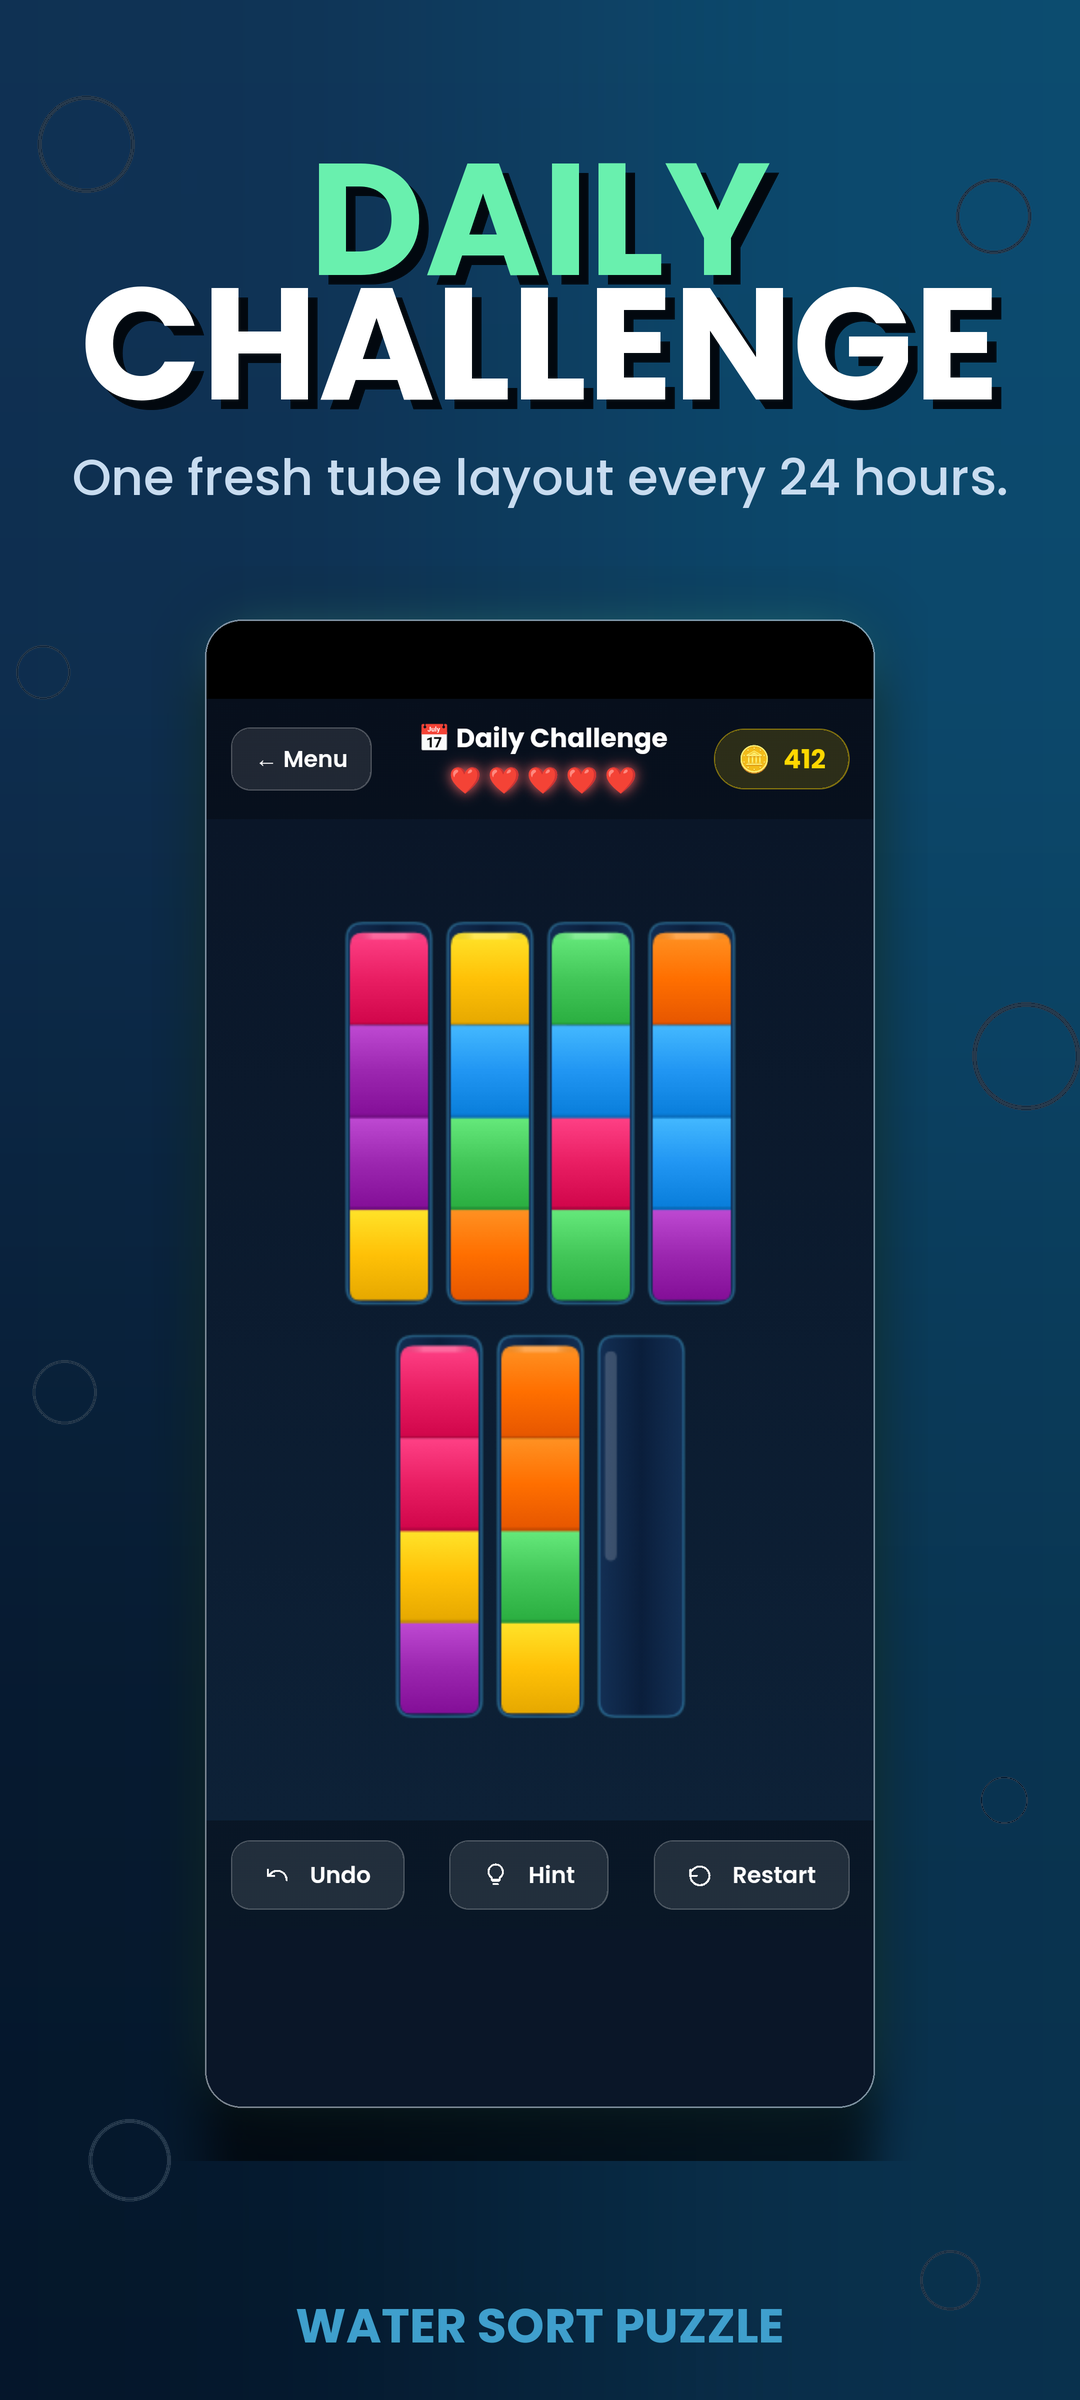
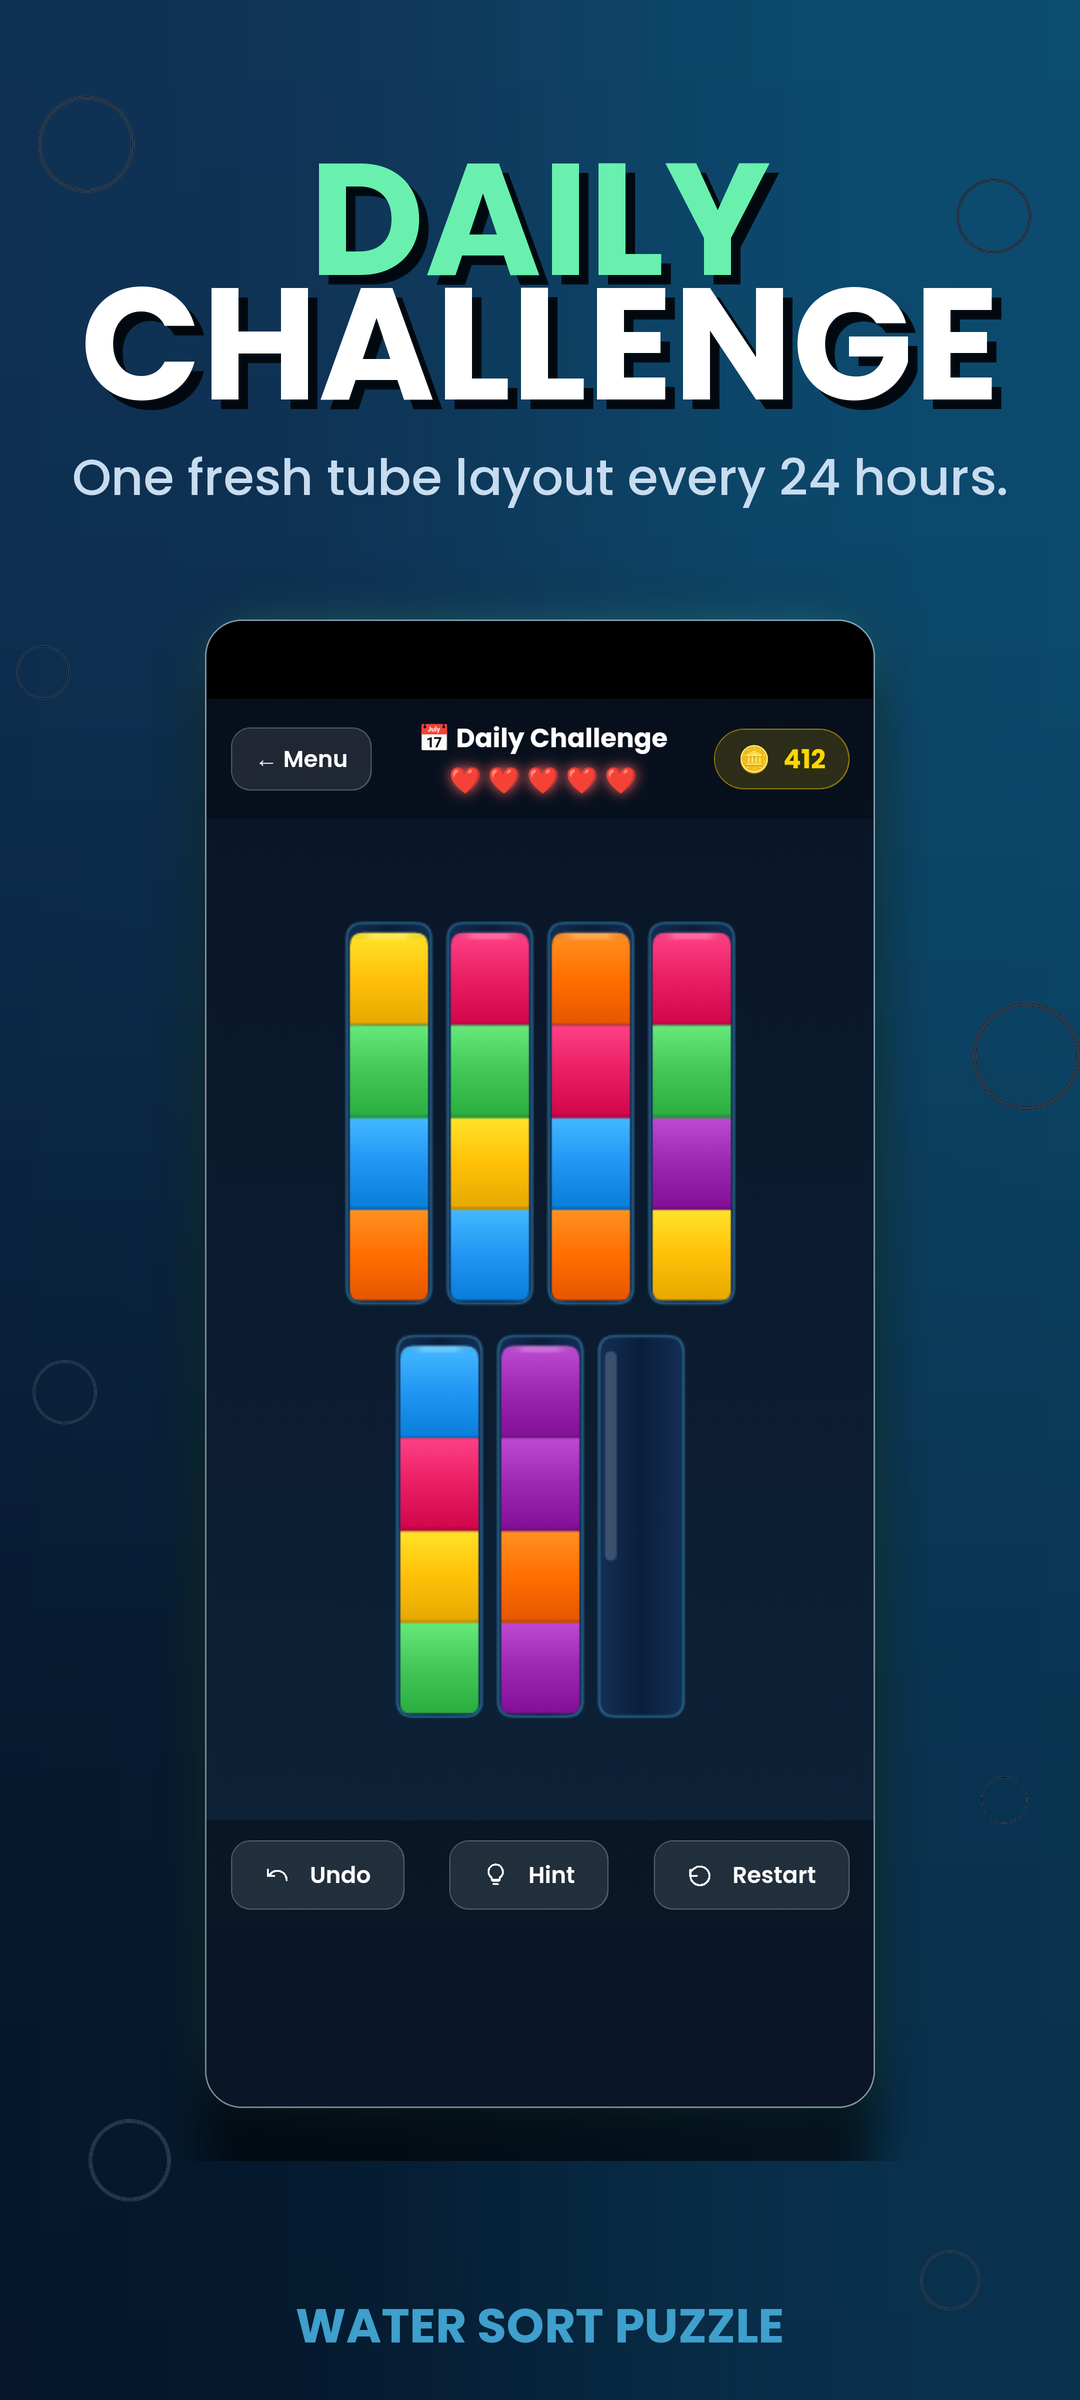
Screenshot rules: no shop/more-games slots; regen WaterSort phone
Doc updates:
- CLAUDE.md "Things to flag" — add the no-shop, no-more-games,
  no-settings rule. Every screenshot slot must show actual gameplay
  at a varied level. Drop the WaterSort/Nonogram/Puzzle2048
  grandfathering — those three are being actively regenerated.
- SHIP_GAME.md Phase 3.3 — bans listed (Shop, More Games, Settings,
  Privacy/About, duplicate level/state). Adds a slot allocation
  table as a starting point (deep + early + mid + daily + level
  select + alt mid + win-screen).

WaterSort phone regen:
- screenshot_headlines.json: replaced "POWER-UPS IN THE SHOP" and
  "MORE PEGASUS PUZZLES" with "EARLY POURS" + "MID-GAME TANGLES".
- screenshot_taps.json: slots 04 and 05 now drive
  Game.startPlay() at distinct levels (8 and 42 respectively)
  instead of tapping the shop/more-games icons. Slot 03 fixed to
  use Game.showScreen('levelScreen'), slot 06 fixed to use
  window.wsMissionsOpen() (previous showScreen('missionsScreen')
  was a wrong ID — missions is an overlay, not a screen).
- store/screenshots/phone/{01-07}.png regenerated. Each slot shows
  distinct gameplay: level 88 / daily / level select / level 9 /
  level 43 / daily missions / menu. No shop, no more-games.

Changed region(s): [[0.3056, 0.375, 0.7028, 0.7188]]

diff --git a/CLAUDE.md b/CLAUDE.md
@@ -13,8 +13,8 @@ Read this file end-to-end before doing anything in here.
   `COMPETITIVE_BENCHMARK.md`, `NOTIFICATIONS_IMPL.md`)
 - `Gs/scripts/` — all Python scripts (`pre_publish_check.py`,
   `build_release.py`, `gen_handoff.py`, `gen_translations.py`,
-  `gen_store_paste.py`, `pepk_command.py`, `consult_designer.py`,
-  `init_app_metadata.py`,
+  `gen_store_paste.py`, `pepk_command.py`, `gen_upload_keystore.py`,
+  `consult_designer.py`, `init_app_metadata.py`,
   `capture_screenshots.py`, `wrap_screenshots.py`,
   `wrap_tablet_screenshots.py`, `app_themes.py`,
   `dedup_similar_apps.py`, `cleanup_repo.py`, `fix_all_apps.py`,
@@ -57,6 +57,11 @@ respectively. Run scripts from the repo root:
   `<id>` — never `<uk-UA>` / `<id-ID>`). `pre_publish_check.py
   check_store_paste_locale_tags` blocks any STORE_PASTE.md that drifts
   back to BCP-47 country codes
+- **`gen_upload_keystore.py`** — generates `<App>/android/upload-
+  keystore.jks` + `upload_certificate.pem` and rewrites
+  `keystore.properties` so gradle signs AABs with the upload key
+  (which Play Console requires to differ from the app signing key).
+  Run after PEPK setup, before first AAB build for that app
 - **`pepk_command.py`** — prints the exact PEPK command for one app,
   pulling alias + password from `keystore.properties`. Refuses to run
   if `encryption_public_key.pem` or `pepk.jar` isn't already in
@@ -198,10 +203,29 @@ will be rejected. Two paths to fix it; the **PEPK option below is
 preferred** because it avoids the 1-3 day Google approval wait of
 the reset request.
 
-**PEPK upload (preferred, takes ~5 minutes per app):**
+**Two keystores per app (the Play App Signing reality):**
+
+Play Console enforces that the **app signing key and upload key
+MUST be different**. After completing PEPK in step 4, leaving step 5
+empty means Play implicitly tries to make app signing key = upload
+key, and the release page errors with "ключ завантаження має
+відрізнятися від ключа розгортання". So every app actually needs
+TWO keystores:
+
+| File | SHA-1 example (Puzzle2048) | Role |
+|---|---|---|
+| `<App>/android/keystore.jks` | `97:71:24:...` | **App signing key** — uploaded encrypted via PEPK in step 4. Play uses this server-side to re-sign delivered APKs. Gradle does NOT use this for AAB signing. |
+| `<App>/android/upload-keystore.jks` | `76:A0:1D:...` | **Upload key** — gradle signs AABs with this. Its public cert (`upload_certificate.pem`) is uploaded via step 5c. Play validates uploads against this cert. |
+
+`<App>/android/keystore.properties` points gradle at the **upload**
+keystore, not the app signing one — so `bundleRelease` produces an
+AAB Play Console will accept.
+
+**PEPK + upload-keystore setup (the one-time per-app flow):**
 
 Before triggering bundleRelease for any app that has not yet been
 uploaded to Play Console:
+
 1. In Play Console for the app: **App integrity → App signing**.
 2. Pick radio **"Експортувати й завантажити ключ зі сховища Java"**
    (Export and upload key from Java keystore) — NOT the default
@@ -209,13 +233,16 @@ uploaded to Play Console:
 3. Download both files into `<App>/android/`:
    - `encryption_public_key.pem` (step 1 link on the page)
    - `pepk.jar`                    (step 2 link on the page)
-4. Run `python3 scripts/pepk_command.py <App>` to print the exact
-   `java -jar pepk.jar …` command pre-filled with that app's
-   keystore alias and password. Run it; it produces
-   `<App>/android/<alias>_pepk.zip`.
+4. Run `python3 scripts/pepk_command.py <App>` to print the PEPK
+   command. Run it; it produces `<App>/android/<alias>_pepk.zip`.
 5. Upload that `.zip` via step 4 link in Play Console.
-6. Save. Done — the local keystore is now this app's signing key
-   without a reset request.
+6. Run `python3 scripts/gen_upload_keystore.py <App>`. This
+   generates a SEPARATE upload keystore + cert and rewrites
+   `keystore.properties` to point gradle at it.
+7. Upload `<App>/android/upload_certificate.pem` via step 5c link
+   in Play Console.
+8. Save. Done — the red "must differ" error clears, and any
+   subsequent `bundleRelease` produces an AAB Play accepts.
 
 **Reset request (fallback, takes 1-3 business days):**
 
@@ -224,14 +251,20 @@ wrong-key AAB and Play has locked in the Google-generated upload
 key. Submit `<App>/android/upload_cert_request.pem` (auto-generated
 by `migrate_to_per_app_keystores.py`) via Play Console "Request
 upload key reset". WaterSort and Nonogram already went through this
-path. All other apps in the portfolio should use the PEPK option
-above on their first Play Console listing setup, BEFORE any AAB
-upload, to avoid the reset wait.
+path. All other apps in the portfolio should use the PEPK +
+upload-keystore flow above on their first Play Console listing
+setup, BEFORE any AAB upload, to avoid the reset wait.
 
 **Shipping flag:** SHIP_GAME.md Phase 7 (AAB build + upload) MUST
-verify the local keystore SHA-1 matches Play Console's registered
-upload key before attempting an upload. If it doesn't,
-hard-block the upload step and run the PEPK flow first.
+verify three things before kicking off bundleRelease:
+1. `<App>/android/encryption_public_key.pem` and `pepk.jar` exist
+   (PEPK prerequisites downloaded).
+2. `<App>/android/upload-keystore.jks` and `upload_certificate.pem`
+   exist (separate upload key generated).
+3. `<App>/android/keystore.properties` `storeFile` points at
+   `upload-keystore.jks` (so gradle signs AABs with the upload key).
+If any of these isn't true, hard-block the upload step and run the
+PEPK + gen_upload_keystore.py flow first.
 
 ---
 
@@ -594,9 +627,24 @@ If you see any of these, stop and surface:
 - Auto-generated listings via template substitution
 - `game.html` under ~8KB planned for publishing
 - Reused screenshots across multiple apps
+- **Shop / "More Games" / settings screens used as screenshots.**
+  Every screenshot slot must show ACTUAL GAMEPLAY at a varied level
+  — different board layouts, different progress states, different
+  game phases. Capturing the shop or "More Games" panel is a
+  wasted slot (Play Store users see "this app is mostly a paywall
+  and a list of other apps" instead of "this is a fun puzzle") and
+  is auto-blocked from May 2026. Use diverse level captures
+  instead — e.g. an early-game level, a mid-game level, a late-game
+  board, the daily challenge active, a streak banner state.
+  This rule applies retroactively: WaterSort, Nonogram, and
+  Puzzle2048 had slots showing shop / more-games and have been
+  regenerated. No more grandfathering of those three.
 - Phone, tablet 7", and tablet 10" listings reusing the same raw
   page, the same wrapper, or the same headline copy. **Each of the
-  three surfaces must be a fully distinct listing**, varying ALL of:
+  three surfaces must be a fully distinct listing**, AND every
+  individual wrapped screenshot within each surface must have a
+  unique raw + unique headline + visually distinct wrapper variant
+  from every other slot in that surface. Varying ALL of:
     1. **Game pages captured** — different in-app screens (menu vs.
        active board vs. shop vs. results vs. daily challenge etc.),
        no overlap of which screen appears in two surfaces

diff --git a/docs/SHIP_GAME.md b/docs/SHIP_GAME.md
@@ -424,6 +424,36 @@ boots the emulator, installs the debug APK, force-stops/relaunches the
 app for each slot, executes a tap sequence, and saves each capture to
 `<App>/store/screenshots/phone/raw/0N.png`.
 
+**What each slot must show — and what's banned.**
+
+Every slot must show **actual gameplay at a different level / state**.
+Banned content (Play Console BLOCKS as of May 2026 via
+`check_screenshot_uniqueness`):
+
+- ✗ The Shop screen (IAP purchase panel)
+- ✗ The "More Games" / cross-promo panel
+- ✗ Settings / preferences screen
+- ✗ Privacy policy / about screen
+- ✗ Two slots showing the same level number / board state
+
+Required: vary the **level, board state, color palette in play,
+progress, and HUD state** across slots. Reasonable allocation for a
+7-slot phone listing:
+
+| Slot | Suggested content |
+|---|---|
+| 01 | Late-game board (level ≥ 60) mid-action |
+| 02 | Early-game board (level ≤ 10) showing the core mechanic clean |
+| 03 | Mid-game board (level 20-40) at a moment of choice |
+| 04 | Daily challenge screen actively running |
+| 05 | Level select / progress map showing stars / completion ring |
+| 06 | A different mid-game board (different palette, different layout) |
+| 07 | Win / level-complete screen with reward animation |
+
+These are starting points — the rule is "no shop, no more-games, no
+two duplicates," not a rigid template. Pick what shows the app at
+its best.
+
 **Pre-capture seed file required.** Create
 `<App>/test/seed_screenshot_state.js` with the EXACT localStorage keys
 this app's `game.html` reads. Generic templates with keys like 'coins'
@@ -1058,8 +1088,10 @@ in.
 **HARD BLOCKER before Phase 7 runs at all:**
 
 If this app has not yet had its Play Console "App signing settings"
-page configured with the local keystore, every AAB upload will be
-rejected. Before invoking gradle:
+page configured with the local keystore AND a separate upload
+keystore, every AAB upload will be rejected. Play Console enforces
+that **app signing key ≠ upload key** — completing only PEPK is not
+enough. Before invoking gradle:
 
 1. Confirm `<App>/android/encryption_public_key.pem` and
    `<App>/android/pepk.jar` are present. The human must download
@@ -1068,16 +1100,30 @@ rejected. Before invoking gradle:
    file is missing, STOP and ask the human to download them.
 2. Run `python3 scripts/pepk_command.py <App>` and execute the
    printed command. It produces `<App>/android/<alias>_pepk.zip`.
-3. Human uploads that `.zip` via Play Console step 4, hits Save.
-4. THEN run `./gradlew bundleRelease`.
+3. Human uploads that `.zip` via Play Console step 4 (step 1-4 on
+   the App signing page).
+4. Run `python3 scripts/gen_upload_keystore.py <App>`. This
+   generates `<App>/android/upload-keystore.jks`,
+   `upload_certificate.pem`, and rewrites `keystore.properties` so
+   gradle signs AABs with the upload key.
+5. Human uploads `<App>/android/upload_certificate.pem` via Play
+   Console step 5c. Hits Save (no red "must differ" error this
+   time).
+6. THEN run `./gradlew bundleRelease`. The AAB is signed with the
+   upload key, which is what Play accepts on the release page.
 
 WaterSort and Nonogram skipped this — they each went through the
-slower upload-key reset workflow (1-3 business days). For every app
-from Puzzle2048 onward, use the PEPK flow above.
+slower upload-key reset workflow (1-3 business days) before the
+two-keystore requirement was understood. For every app from
+Puzzle2048 onward, use the PEPK + upload-keystore flow above.
 
-The `app_info.json:first_upload_at` field marks whether an app has
-already cleared this step. If unset and `<App>/android/*_pepk.zip`
-doesn't exist, the PEPK flow has not run yet.
+The `app_info.json` fields mark progress:
+- `app_signing_key_sha1` = original keystore.jks SHA-1 (server-side)
+- `upload_key_sha1`      = upload-keystore.jks SHA-1 (gradle signing)
+- `first_upload_at`       = set after first successful Play upload.
+
+If `upload_key_sha1 == app_signing_key_sha1`, gen_upload_keystore.py
+hasn't run yet — block on it.
 
 **First build (before Phase 6 hand-off):**
 ```
